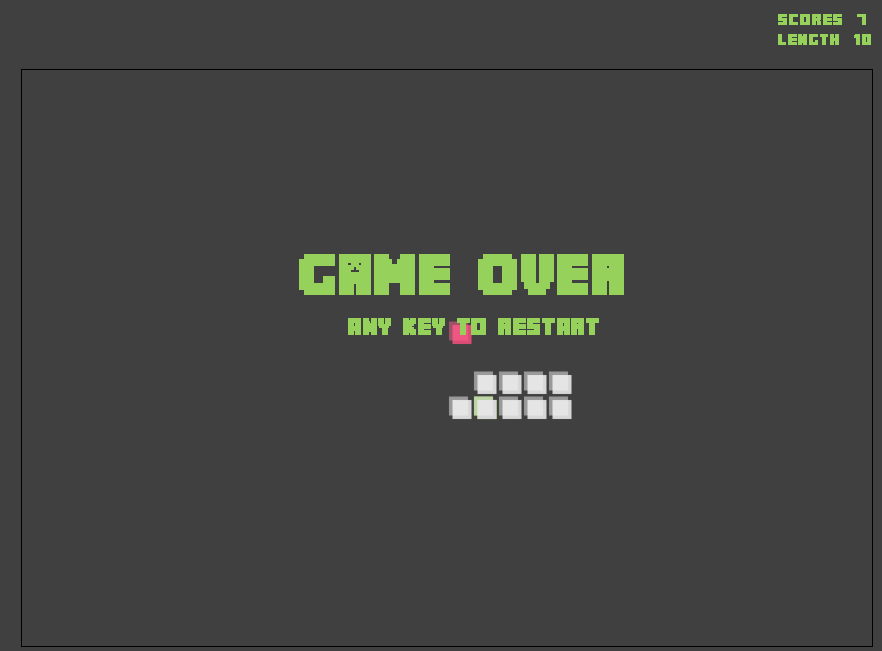
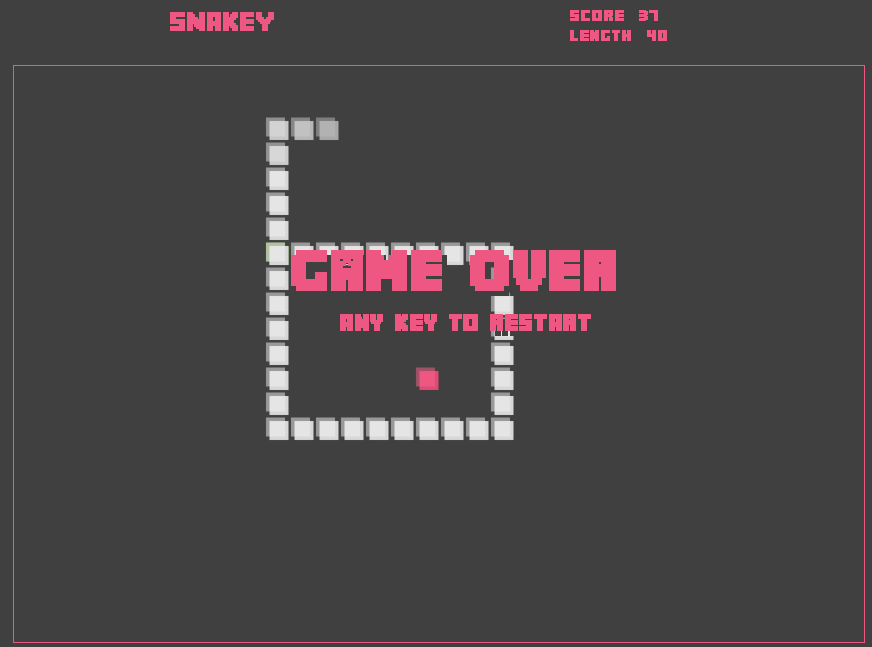
update

diff --git a/snake/src/hr/vsite/java/Gameplay.java b/snake/src/hr/vsite/java/Gameplay.java
@@ -14,7 +14,7 @@ public class Gameplay extends JPanel implements KeyListener, ActionListener {
     private final int[] snakexLength = new int[750];
     private final int[] snakeyLength = new int[750];
 
-    private Timer timer;
+    private final Timer timer;
 
     private final int[] enemyxpos = {25, 50, 75, 100, 125, 150, 175, 200, 225, 250, 275, 300, 325, 350, 375, 400, 425, 450, 475, 500, 525, 550, 575, 600, 625, 650, 675, 700, 725, 750, 775, 800, 825, 850};
     private final int[] enemyypos = {75, 100, 125, 150, 175, 200, 225, 250, 275, 300, 325, 350, 375, 400, 425, 450, 475, 500, 525, 550, 575, 600, 625};
@@ -30,7 +30,7 @@ public class Gameplay extends JPanel implements KeyListener, ActionListener {
 
     private int score = 0;
     private int moves = 0;
-    private int delay = 0;
+    private int delay;
     private int gameover = 0;
 
     private Graphics g;
@@ -61,7 +61,7 @@ public class Gameplay extends JPanel implements KeyListener, ActionListener {
         g.fillRect(24, 10, 851, 55);
 
         // gameplay border
-        g.setColor(Color.BLACK);
+        g.setColor(new Color(150, 209, 91));
         g.drawRect(24, 74, 851, 577);
 
         // gameplay background
@@ -69,25 +69,46 @@ public class Gameplay extends JPanel implements KeyListener, ActionListener {
         g.fillRect(25, 75, 850, 575);
 
         // draw scores
+
+        g.setColor(Color.darkGray);
+        g.setFont(new Font("minecrafter", Font.PLAIN, 14));
+        g.drawString("Score: " + score, 583, 33);
+
         g.setColor(new Color(150, 209, 91));
         g.setFont(new Font("minecrafter", Font.PLAIN, 14));
-        g.drawString("Score: " + score, 780, 30);
+        g.drawString("Score: " + score, 580, 30);
+
+
+
+        // snakey
+        g.setColor(Color.darkGray);
+        g.setFont(new Font("minecrafter", Font.PLAIN, 24));
+        g.drawString("SNAKEY", 183, 43);
+
+        g.setColor(new Color(150, 209, 91));
+        g.setFont(new Font("minecrafter", Font.PLAIN, 24));
+        g.drawString("SNAKEY", 180, 40);
+
 
         // length
+        g.setColor(Color.darkGray);
+        g.setFont(new Font("minecrafter", Font.PLAIN, 14));
+        g.drawString("Length: " + lengthofsnake, 583, 53);
+
         g.setColor(new Color(150, 209, 91));
         g.setFont(new Font("minecrafter", Font.PLAIN, 14));
-        g.drawString("Length: " + lengthofsnake, 780, 50);
+        g.drawString("Length: " + lengthofsnake, 580, 50);
 
         ImageIcon head = new ImageIcon("head.png");
         head.paintIcon(this, g, snakexLength[0], snakeyLength[0]);
 
-        if (lengthofsnake <= 3) {
+        if (lengthofsnake <= 4) {
             for (int a = 1; a < lengthofsnake; a++) {
                 ImageIcon snakeimage = new ImageIcon("body.png");
                 snakeimage.paintIcon(this, g, snakexLength[a], snakeyLength[a]);
             }
-        } else if (lengthofsnake > 3) {
-            for (int a = 1 ; a < lengthofsnake -3; a++) {
+        } else {
+            for (int a = 1 ; a < lengthofsnake -4; a++) {
                 ImageIcon snakeimage = new ImageIcon("body.png");
                 snakeimage.paintIcon(this, g, snakexLength[a], snakeyLength[a]);
             }
@@ -99,6 +120,9 @@ public class Gameplay extends JPanel implements KeyListener, ActionListener {
 
             ImageIcon body3 = new ImageIcon("body3.png");
             body3.paintIcon(this, g, snakexLength[lengthofsnake - 3], snakeyLength[lengthofsnake - 3]);
+
+            ImageIcon body4 = new ImageIcon("body4.png");
+            body4.paintIcon(this, g, snakexLength[lengthofsnake - 4], snakeyLength[lengthofsnake - 4]);
         }
 
         ImageIcon enemyimage = new ImageIcon("enemy.png");
@@ -125,12 +149,40 @@ public class Gameplay extends JPanel implements KeyListener, ActionListener {
                 down = false;
                 up = false;
 
-                g.setColor(new Color(150, 209, 91));
+
+                g.setColor(Color.darkGray);
+                g.setFont(new Font("minecrafter", Font.BOLD, 50));
+                g.drawString("Game Over", 305, 305);
+
+                g.setFont(new Font("minecrafter", Font.BOLD, 20));
+                g.drawString("Any key to RESTART", 355, 345);
+
+                g.setColor(new Color(237, 87, 130));
                 g.setFont(new Font("minecrafter", Font.BOLD, 50));
                 g.drawString("Game Over", 300, 300);
 
                 g.setFont(new Font("minecrafter", Font.BOLD, 20));
                 g.drawString("Any key to RESTART", 350, 340);
+
+
+
+                g.setColor(new Color(237, 87, 130));
+                g.setFont(new Font("minecrafter", Font.PLAIN, 24));
+                g.drawString("SNAKEY", 180, 40);
+
+
+                g.setColor(new Color(237, 87, 130));
+                g.drawRect(24, 74, 851, 577);
+
+
+
+                g.setColor(new Color(237, 87, 130));
+                g.setFont(new Font("minecrafter", Font.PLAIN, 14));
+                g.drawString("Score: " + score, 580, 30);
+
+                g.setColor(new Color(237, 87, 130));
+                g.setFont(new Font("minecrafter", Font.PLAIN, 14));
+                g.drawString("Length: " + lengthofsnake, 580, 50);
 
             }
         }
